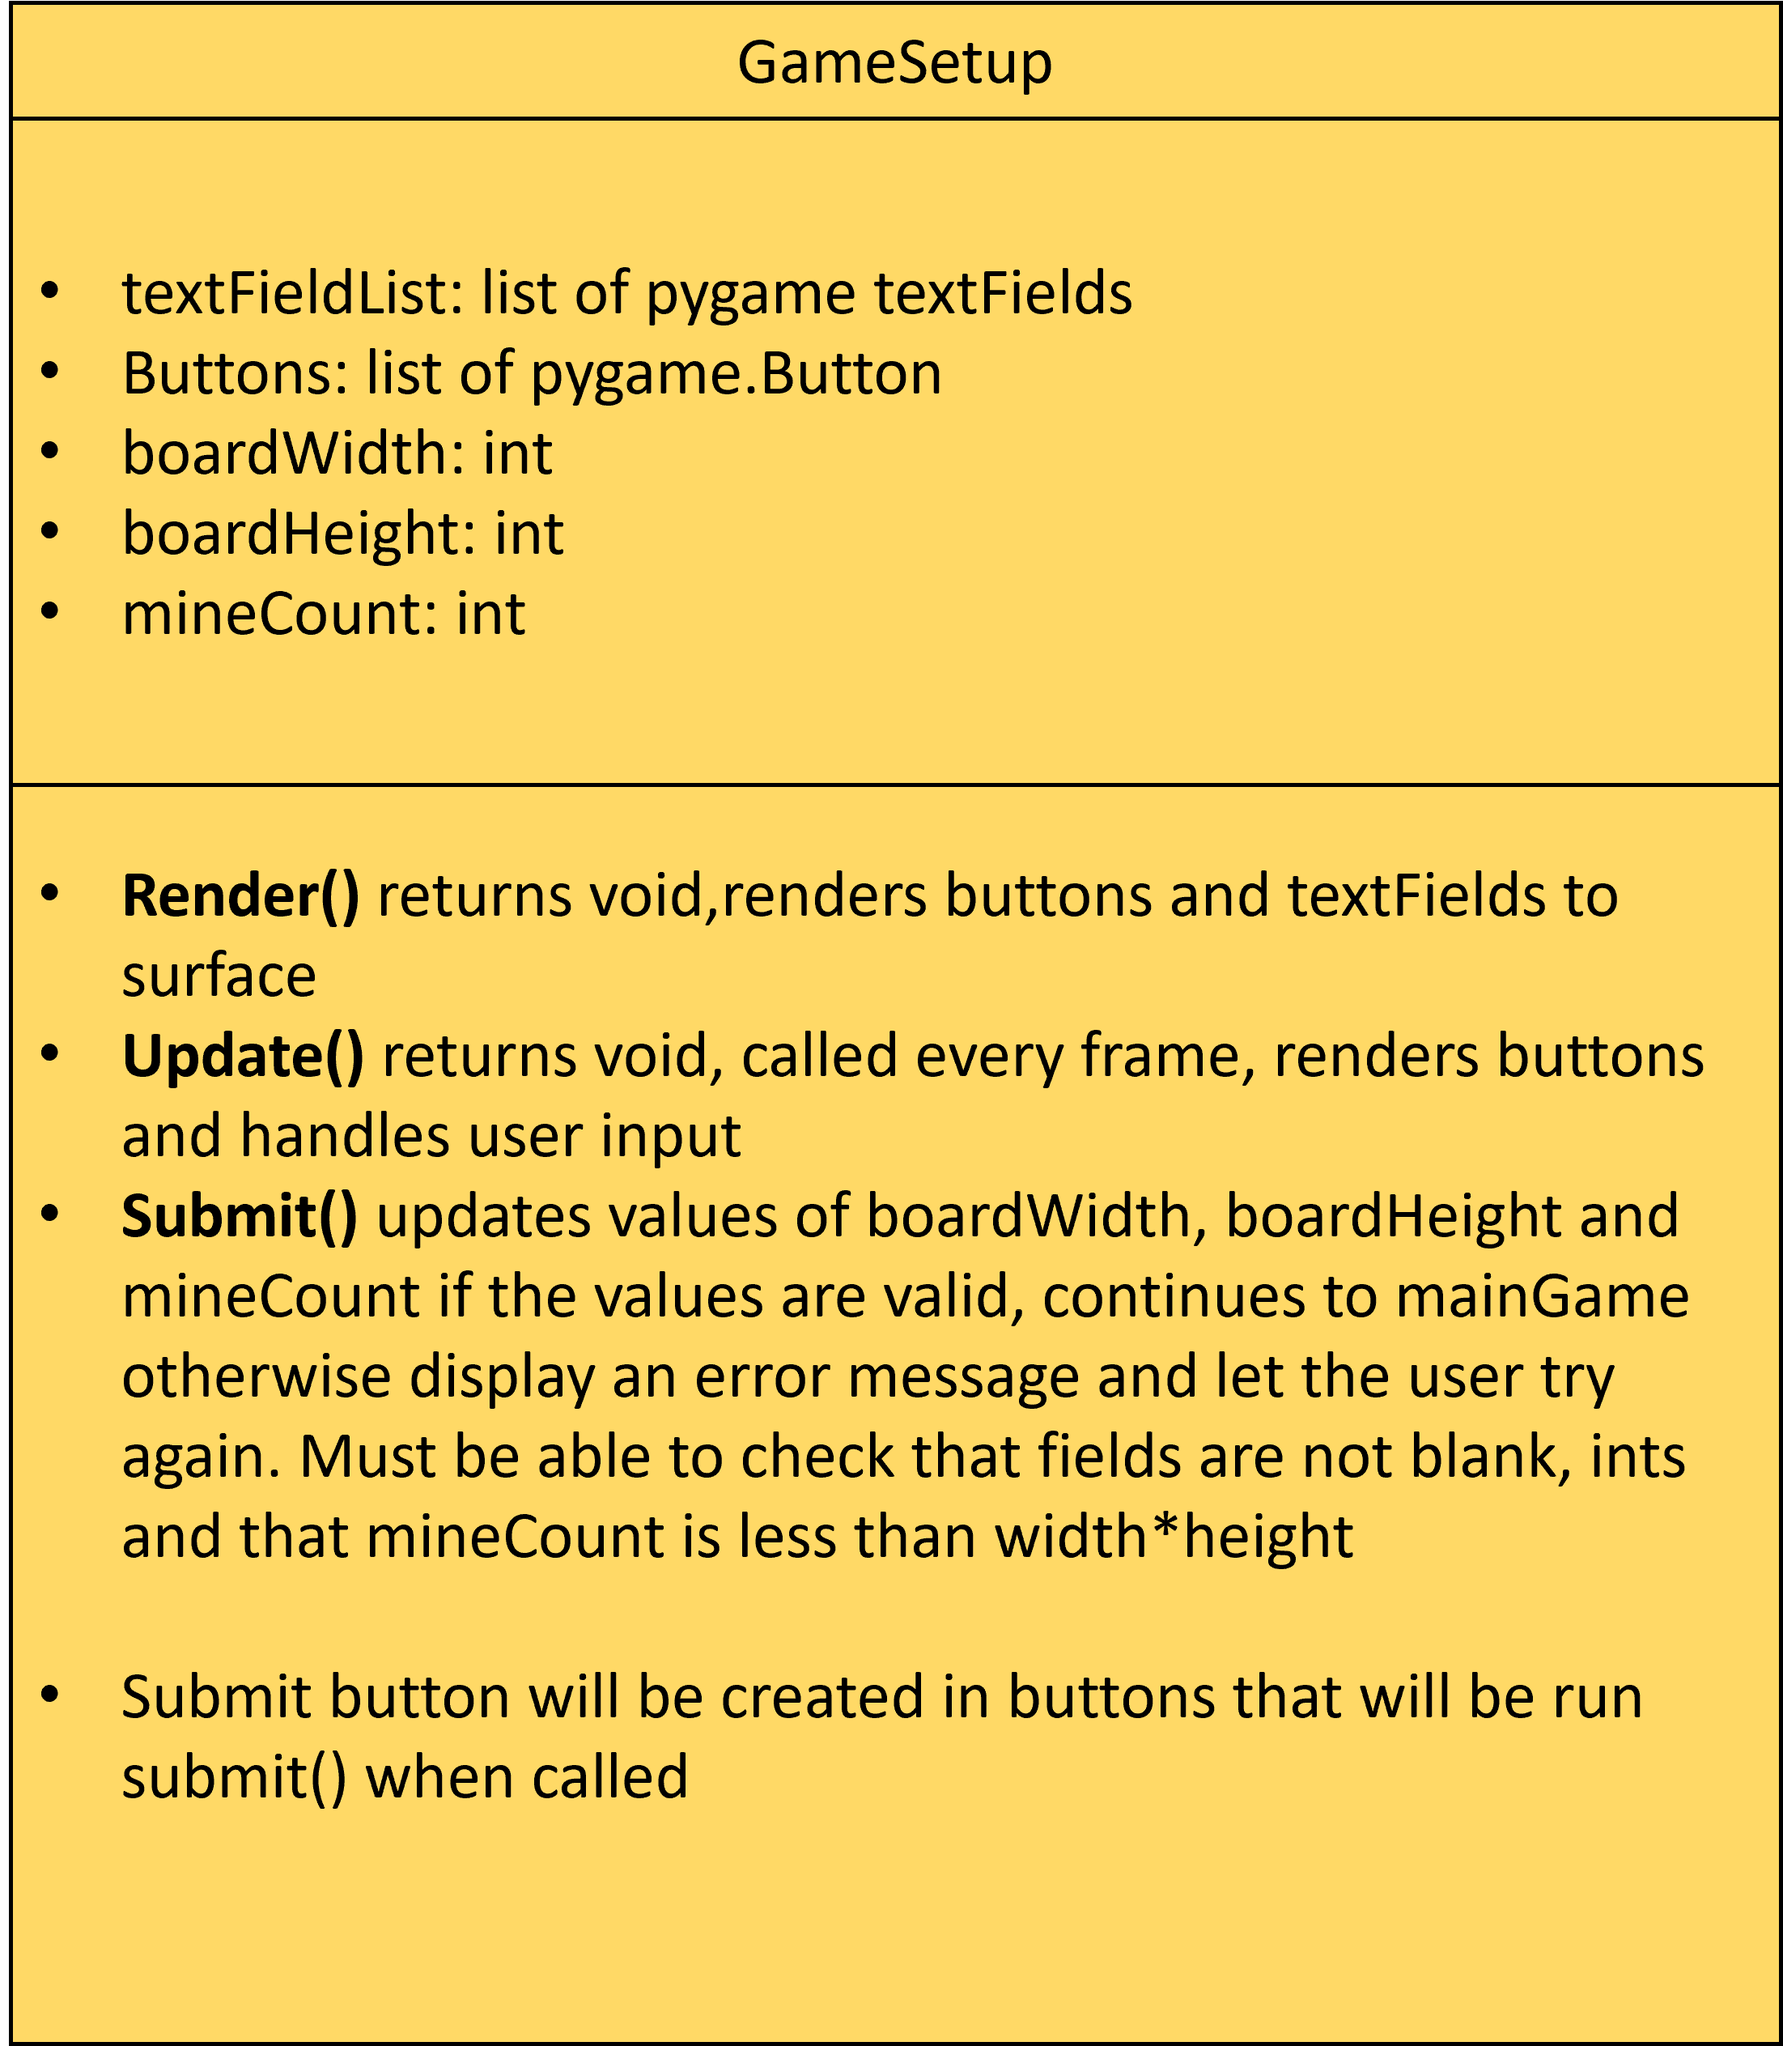
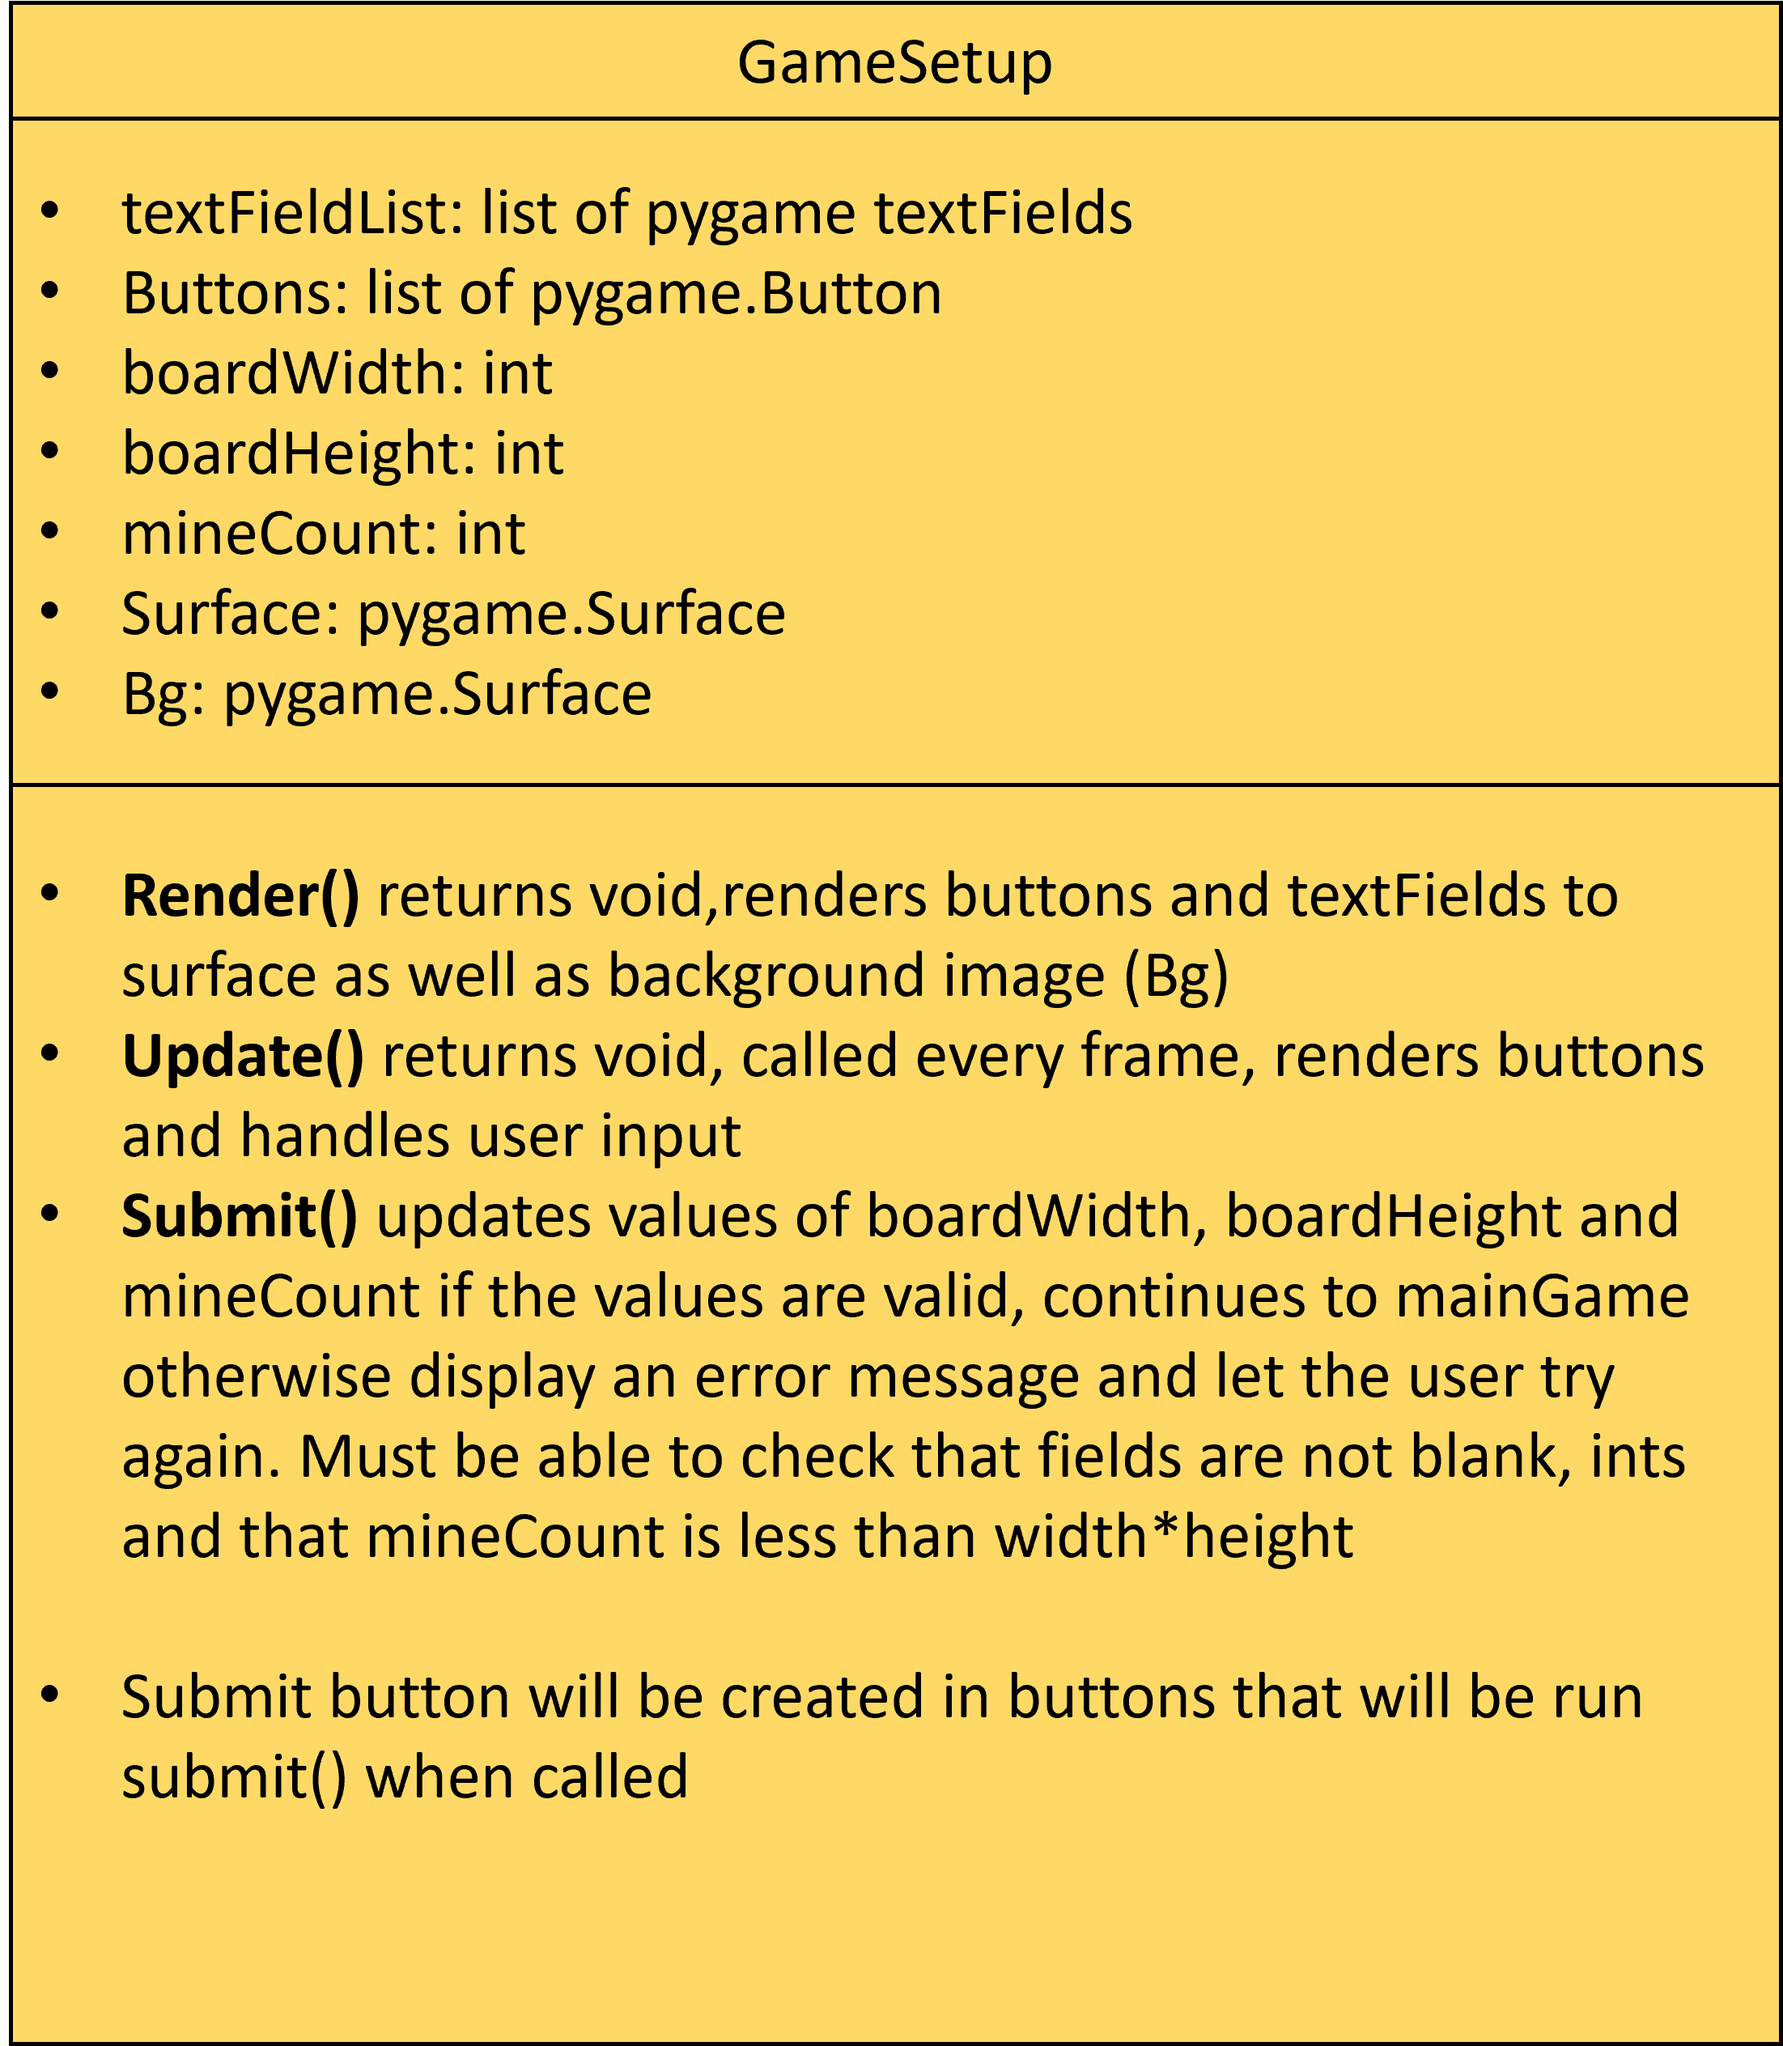
GameSetup now renders button and background, mainMenu button set to right position, readme updated with GameSetup test case

Changed region(s): [[0.0617, 0.0926, 0.6482, 0.3704], [0.1852, 0.463, 0.6791, 0.4939]]

diff --git a/MainMenu.py b/MainMenu.py
@@ -16,10 +16,15 @@ class MainMenu:
         #initialises variables, loads background and scales to fit window,loads buttons into buttons array
         self.surface=surface
         self.bg=pygame.image.load("assets//img//MainMenu_bg.jpg")
-        self.bg=pygame.transform.scale(self.bg,(self.surface.get_width(),surface.get_height()))
+        self.bg=pygame.transform.scale(self.bg,(self.surface.get_width(),self.surface.get_height()))
         print(pygame.get_error())
         #main menu constructor, take Surface object as argument for rendering to screen
-        self.buttons=[Button(surface,100,100,300,100,"assets//img//button1.png",gameState.setGameState,lcArgs=GameStates.MAIN_GAME)]
+        #set button dimensions for start button
+        buttonWidth=self.surface.get_width()/3
+        buttonHeight=self.surface.get_height()/8
+        buttonX=self.surface.get_width()/2-(buttonWidth/2)
+        buttonY=self.surface.get_height()*3/8
+        self.buttons=[Button(surface,buttonX,buttonY,buttonWidth,buttonHeight,"assets//img//button1.png",gameState.setGameState,lcArgs=GameStates.GAME_SETUP)]
     def render(self):
         #renders the MainMenu to the screen returns nothing
         self.surface.blit(self.bg,(0,0))

diff --git a/GameSetup.py b/GameSetup.py
@@ -1,3 +1,36 @@
 import pygame
+from button import Button
+
 class GameSetup:
-    pass
+    surface=None
+    textFieldList=[]
+    buttons=[]
+    boardWidth=0
+    boardHeight=0
+    mineCount=0
+    def __init__(self,surface:pygame.Surface):
+        self.surface=surface
+
+        #set button position relative to the size of the window
+        buttonWidth=self.surface.get_width()/3
+        buttonHeight=self.surface.get_height()/8
+        buttonX=self.surface.get_width()/2-(buttonWidth/2)
+        buttonY=self.surface.get_height()*6/8
+       
+        self.buttons=[Button(self.surface,buttonX,buttonY,buttonWidth,buttonHeight,"assets/img/submitButton.png",self.submit)]
+        self.bg=pygame.image.load("assets//img//GameSetup.png")
+        self.bg=pygame.transform.scale(self.bg,(self.surface.get_width(),self.surface.get_height()))
+        
+        
+    def render(self):
+        self.surface.blit(self.bg,(0,0))
+        for button in self.buttons:
+            button.render()
+            
+    def update(self):
+        self.render()
+        for button in self.buttons:
+            button.handleClick()
+    def submit(self):
+        pass
+

diff --git a/main.py b/main.py
@@ -1,5 +1,6 @@
 #main.py
 import pygame
+from GameSetup import GameSetup
 from MainGame import MainGame
 from gameState import GameStates
 import gameState
@@ -7,9 +8,9 @@ from MainMenu import MainMenu
 
 
 global WINDOW_WIDTH
-WINDOW_WIDTH=600
+WINDOW_WIDTH=1200
 global WINDOW_HEIGHT
-WINDOW_HEIGHT=600
+WINDOW_HEIGHT=900
 
 
 
@@ -22,6 +23,7 @@ def main():
     print(pygame.get_error())
     mainMenu=MainMenu(surface)
     mainGame=MainGame(surface)
+    gameSetup=GameSetup(surface)
     mainGame.generateBoard(15,15,40,pygame.Rect(0,0,500,500))
     
     while running:
@@ -32,6 +34,9 @@ def main():
                 mainMenu.update()
             case GameStates.MAIN_GAME:
                 mainGame.update()
+            case GameStates.GAME_SETUP:
+                gameSetup.update()
+
 
    
         for event in pygame.event.get():

diff --git a/README.md b/README.md
@@ -70,7 +70,7 @@ The Aim of this project is to:
 |Testing right click in MainGame| When button in MainGame is right clicked test function should run once per right click this is the code for the button: `self.buttons=[Button(surface,0,500,300,100,"assets/img/button1.png",rightClickFunc=test)]`| Test was successful, test function successfully outputed to console once per right click| N/A|
 |
 
-#### gameState
+#### <u>gameState</u>
 | What is Being Tested | What is supposed to happen | What did Happen | What to do now |
 |----------------------|----------------------------|-----------------|----------------|
 |Can gameState be updated from another .py file| gameState can be updated in MainMenu on start button click| gameState is successfully updated| N/A|
@@ -83,3 +83,4 @@ The Aim of this project is to:
 #### <u>GameSetup</u>
 | What is Being Tested | What is supposed to happen | What did Happen | What to do now |
 |----------------------|----------------------------|-----------------|----------------|
+| Rendering to screen|Test background and submit button renders to screen, button renders in the bottom middle|Background renders but button renders to the right|`buttonX=self.surface.get_width()/2+(buttonWidth/2)` was changed to `buttonX=self.surface.get_width()/2-(buttonWidth/2)` now button renders in the correct place, text fields now need to be added|
